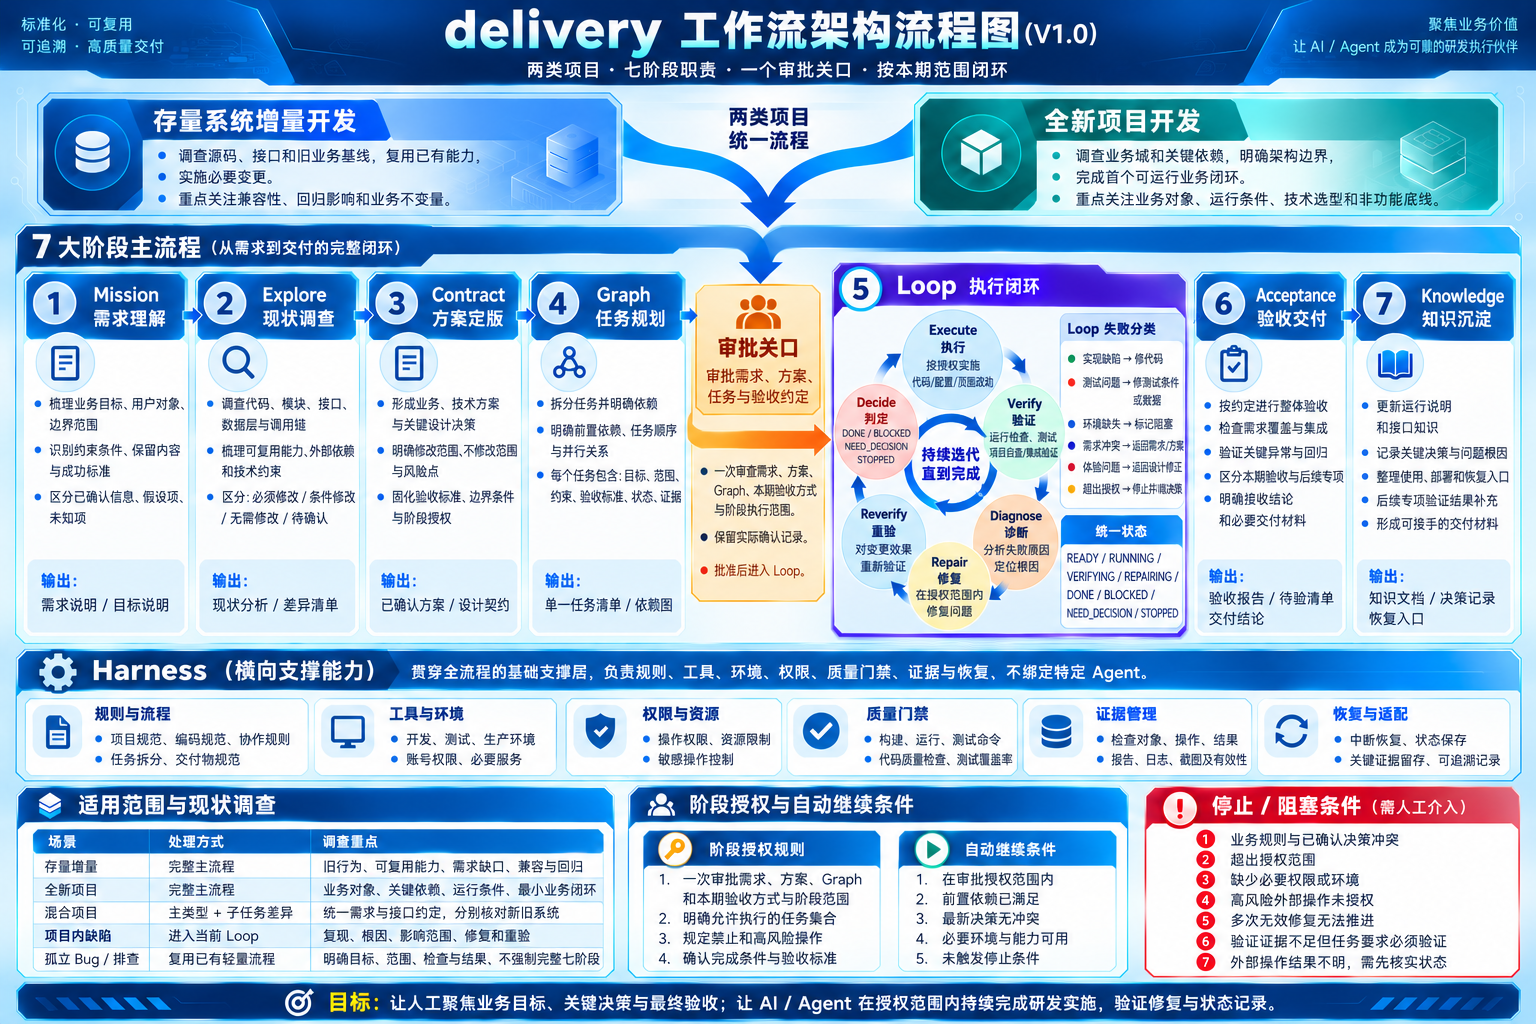
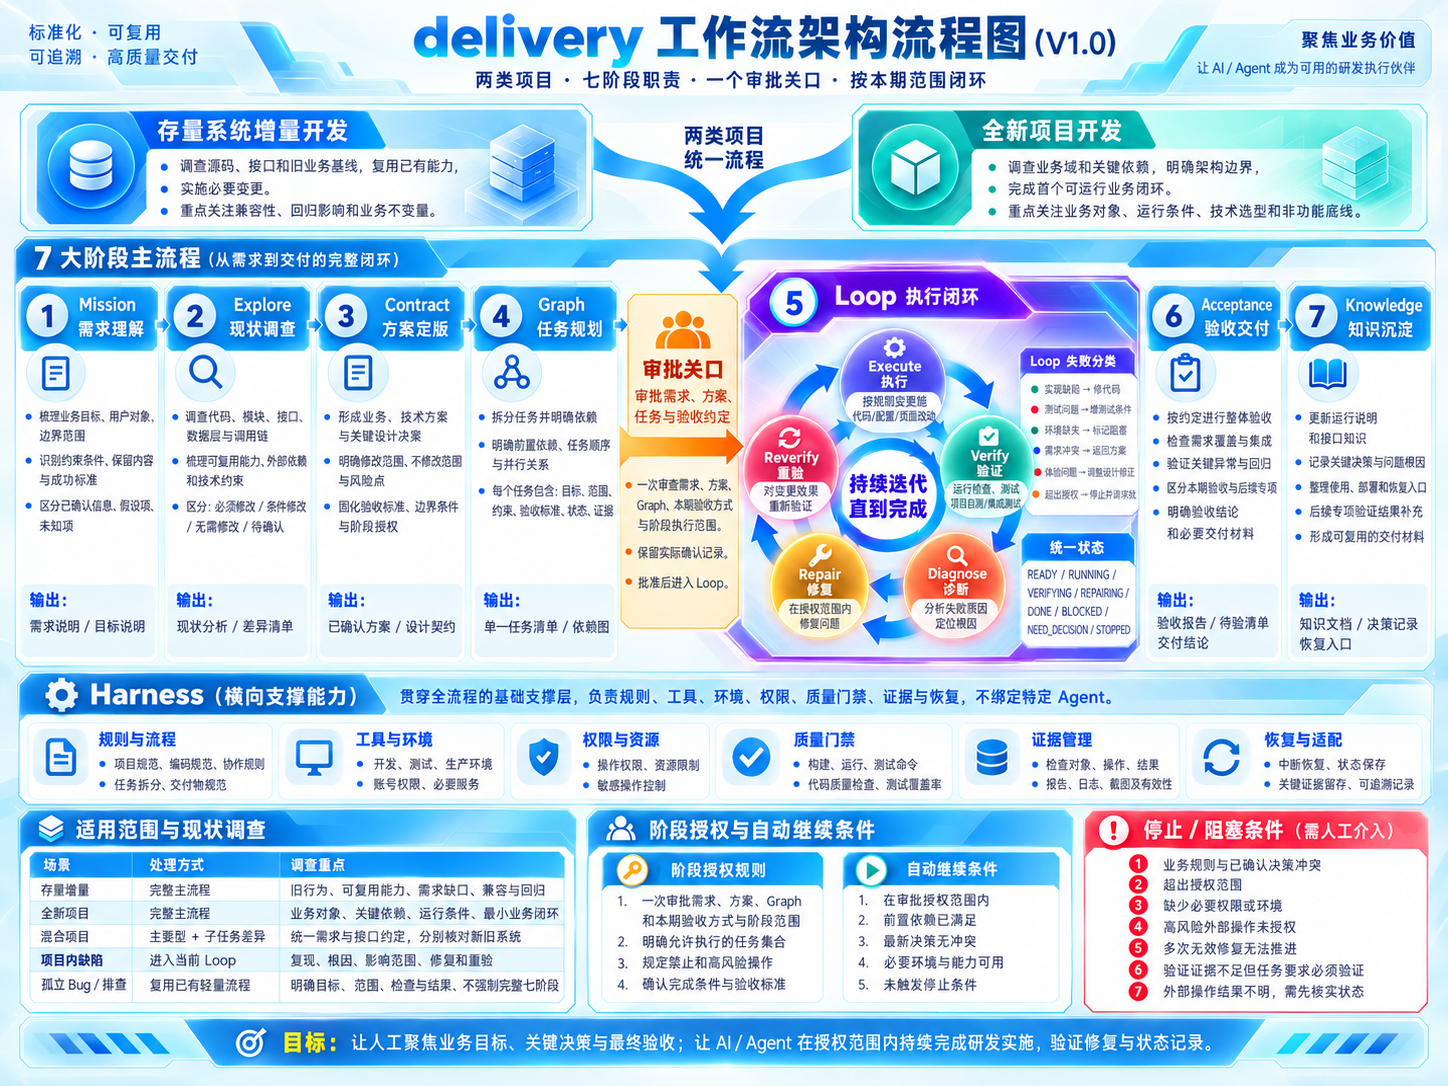
docs: refine delivery V1.0 positioning and terminology

diff --git a/README.en.md b/README.en.md
@@ -2,11 +2,15 @@
 
 # delivery
 
-**Plan with intent. Execute with approval. Deliver with evidence.**
+**A lightweight, agent-agnostic workflow for approval-gated, evidence-based software delivery.**
 
 [中文](README.md) · [MIT](LICENSE) · [CI](https://github.com/AIVORA988/delivery/actions/workflows/ci.yml)
 
-A project-local Agent Skill for incremental work and the first usable slice of a new project. Workflow V1.0, package 1.0.0, Python 3.10+, standard library only.
+delivery supports incremental development in existing systems and new projects. It establishes requirements and design baselines before implementation, coordinates work through human approval and task dependencies, and records verification evidence for acceptance and knowledge capture. It does not depend on a specific agent, model, toolchain, MCP server or cloud service.
+
+Agents advance the workflow and perform development work. The Agent Skill defines behavioral rules; the Python Guard performs deterministic validation of records and referenced files. Users define goals, approve scope, make key decisions and accept deliverables.
+
+Workflow V1.0, package 1.0.0, Python 3.10+, standard library only.
 
 ## Workflow architecture
 
@@ -16,7 +20,7 @@ A project-local Agent Skill for incremental work and the first usable slice of a
 
 ## Quick start
 
-Use an agent that supports Skills in your target project and send these three prompts in order:
+Use a tool that supports Agent Skills in your target project and send these three prompts in order:
 
 ### 1. Install
 
@@ -45,7 +49,22 @@ checks pending when their prerequisites are unavailable.
 
 See [START.md](START.md) for manual installation and conflict handling.
 
-## Run a local demonstration
+## Workflow and example
+
+The seven stages are **Mission → Explore → Contract → Graph → Loop → Acceptance → Knowledge**. A separate **Approval Gate** sits between Graph and Loop.
+
+| Term | Responsibility |
+| --- | --- |
+| Mission | Requirements understanding |
+| Explore | Current-state investigation |
+| Contract | Design finalization |
+| Graph | Task planning |
+| Approval Gate | Human approval of the baseline, scope and permitted operations |
+| Loop | Execution and verification, failure classification, repair, reverification and recovery |
+| Acceptance | Overall acceptance and delivery |
+| Knowledge | Documentation and knowledge capture |
+
+The approved baseline includes requirements, design, tasks and acceptance methods. Agents continue within the approved batch while respecting dependencies, scope and recorded limits. Material changes require review of the affected parts. Harness capabilities provide cross-cutting support for project rules, tools, environments, permissions, quality checks, evidence and recovery.
 
 ```bash
 python examples/try_delivery.py
@@ -70,17 +89,27 @@ Click a diagram to view the full-resolution original (Chinese). See [Usage](docs
 
 [![03 · Acceptance and evidence loop](docs/diagrams/03-acceptance-evidence.png)](docs/diagrams/03-acceptance-evidence.png)
 
-## What it checks
+## Core validation mechanisms
 
-- Plan and task-definition hashes bound to the recorded approval.
-- Acyclic dependencies, approved batches and path boundaries.
-- Recorded repair/time limits that survive recovery.
-- Current source/artifact and raw-report fingerprints.
-- Separate task and overall acceptance, receipt and handoff.
-- Explicit external followups and timely documentation updates.
+- **Approval baseline consistency**: approval is bound to plan and task-definition hashes. Material changes invalidate the baseline; routine progress updates do not.
+- **Task dependencies and authorization scope**: check acyclic dependencies, approved batches and path boundaries. DONE tasks require valid current or historical approval coverage.
+- **Evidence validity**: source, artifact and raw-report fingerprints must match. Changed files invalidate the current result; historical evidence is retained.
+- **Bounded repair and recovery**: validate recorded repair counts and elapsed time against limits, retaining cumulative usage and recovery details across interruptions. Unconfigured limits do not imply unlimited execution.
+- **Separate task and overall acceptance**: task completion does not replace overall acceptance, a recorded receipt or required handoff materials.
+- **Current delivery scope and follow-up validation**: explicitly approved follow-ups remain separate, while documentation and knowledge are updated as work progresses.
 
-The read-only guard checks record consistency. It does not execute project commands, authenticate the reviewer, verify evidence honesty, or enforce an OS sandbox. Installation success means CONFIGURED, not application correctness.
+The read-only Guard is a deterministic validator of record consistency and referenced files. It does not execute project commands, authenticate reviewers, establish report authenticity, or enforce an operating-system sandbox. Agents and the agreed recipients remain responsible for execution, impact analysis and business acceptance under project rules. Installation success means CONFIGURED, not application correctness.
 
-Current-scope acceptance may use approved local, mock, test or review methods. A live-environment check blocks current completion only when explicitly required in that scope. Required checks cannot be silently deferred. Documentation and knowledge evolve with actual decisions, implementation and executed checks.
+## Acceptance scope and evidence validity
+
+Current-scope acceptance may use approved local, Mock, test-environment, source-review or demonstration methods. Conclusions apply only to the coverage actually verified; tasks need not pass through every environment tier. Required live-environment checks must pass within the current scope and cannot be silently deferred.
+
+When all required task checks, overall acceptance, handoff materials and the agreed receipt are complete, the current delivery scope may be declared complete. Approved follow-up validation retains its own NOT_VERIFIED status and recovery entry. Documentation and knowledge evolve with actual decisions, implementation and executed checks; subsequent live results supplement those records.
+
+## Project integration and implementation boundaries
+
+The default files are `plan.md` for the reviewable plan and `record.json` for task state, approvals, evidence and handoff records. Agents maintain the internal records. Existing project rules and local changes are preserved; existing plans and records may be reused without mandatory migration. Isolated investigations and minor fixes follow the project's lightweight process.
+
+The package supports direct Skill installation and a project-local setup script, with optional plugin manifests. It includes no independent background scheduler, complete programmatic workflow engine, operating-system permission sandbox, approval identity authentication or automatic production release capability.
 
 [Workflow](skills/delivery/SKILL.md) · [Usage](docs/usage.md) · [Record contract](skills/delivery/references/record.md) · [Validation](docs/validation.md) · [Contributing](CONTRIBUTING.md) · [Security](SECURITY.md)

diff --git a/docs/design.md b/docs/design.md
@@ -1,26 +1,26 @@
 # 设计原则与实现边界
 
-## 需求质量决定执行质量
+## 需求与方案基线
 
-前期重点是需求、现状、方案和任务拆分。审批位于 Graph 与 Loop 之间，一次确认可执行基线；批准批次内常规动作连续执行，重大变化只复核受影响部分。
+需求理解、现状调查、方案定版与任务规划构成执行前基线。独立的人工审批关口位于 Graph 与 Loop 之间，确认方案、任务、验收方式与授权范围；批准批次内常规操作连续执行，实质变更复核受影响部分。
 
-## 语义稳定，工具可替换
+## 职责分离与工具解耦
 
-Skill 保存七阶段职责、判断与停止规则；Python 工具处理项目安装和确定性记录检查；宿主提供文件、命令、浏览器及测试能力。缺少某个 MCP 不自动等于流程阻塞。
+Agent 负责流程推进和实际研发执行；Skill 定义七阶段职责、判断与停止规则；Python 工具处理项目安装，Guard 负责确定性记录校验；宿主提供文件、命令、浏览器及测试能力。流程不绑定特定 Agent、模型或工具链，缺少特定 MCP 不直接构成流程阻塞。
 
-不运行守护进程，不接管操作系统权限，不为单个工作流建立 Agent 平台。项目原有 AGENTS、构建命令与知识位置保留。
+Harness 表示横向支撑能力，涵盖项目规则、工具、环境、权限、质量门禁、验证证据与恢复。当前实现不包含独立后台调度器、完整的程序化流程执行引擎、操作系统权限沙箱或审批身份认证机制。项目原有 AGENTS、构建命令与知识位置保留。
 
-## 三个逻辑对象，复用已有载体
+## 轻量化记录与载体复用
 
-Plan / Contract、Task Board、Evidence 是逻辑职责，不要求三套人工表单。默认一份可读方案配一份 Agent 维护的 record，原始日志只放引用；公共配置和安装回执按项目维护一次。
+Plan / Contract、Task Board、Evidence 分别承担方案、任务和验证证据的逻辑职责，不要求维护三套人工表单。默认使用 `plan.md` 保存可读方案，`record.json` 保存 Agent 维护的状态与记录，原始日志保留引用；公共配置和安装回执按项目维护一次。
 
-## 作用域决定验收
+## 交付范围与验收约定
 
 本期完成取决于已批准需求、方法和必需交付物。真实环境专项按目标判断是否属于本期，未覆盖项保留独立状态。知识更新可以依据设计、静态实现和已执行检查持续进行。
 
-## 用工具发现矛盾，用证据判断结果
+## 确定性校验与验证证据
 
-Guard 检查审批摘要、Graph、累计用量、证据文件和完成组合。摘要发现所引用文件变化，不能发现所有语义影响或证明记录真实。高风险与关键跨模块变更按实际风险安排独立复核，不把同一人的自检自动当成接收事实。
+Guard 校验审批基线、任务依赖、授权范围、记录中的执行限制、验证证据有效性及整体验收条件。摘要可检测所引用文件的变化，不能识别所有语义影响或证明记录真实性。高风险与关键跨模块变更按实际风险安排独立复核，自检结果不自动构成交付接收记录。
 
 ## 来源与版本
 

diff --git a/skills/delivery/SKILL.md b/skills/delivery/SKILL.md
@@ -1,13 +1,13 @@
 ---
 name: delivery
-description: 将研发需求从规划、审批推进到按约验收：接入项目，前置现状调查、方案和任务拆分，在批准范围内连续执行、验证、修复并更新文档。用于存量增量、新项目、delivery 初始化与恢复；孤立排查和微小修复采用项目轻量流程。
+description: 面向 AI Agent 的轻量级研发交付工作流。需求与方案前置，经人工审批授权后，在批准范围内执行、验证、修复、整体验收并更新文档与知识。用于存量系统增量开发、全新项目开发及 delivery 初始化与恢复；孤立排查和微小修复采用项目轻量流程。
 metadata:
   version: "V1.0"
 ---
 
 # delivery V1.0
 
-将目标落实为可审批、可执行、可验收、可接手的研发交付。以需求、方案和任务拆分质量为前提，在实际批准范围内连续执行。
+以需求与方案基线、人工审批授权、受控迭代执行和可追溯的验证证据规范研发交付。Agent 负责流程推进与实际执行，Skill 定义行为规范，Python Guard 负责确定性记录校验。
 
 ## 接入与当前阶段
 
@@ -37,7 +37,7 @@ metadata:
 
 建立唯一主清单。每项只保留目标、范围、依赖、可核验的本期验收、状态和证据引用；公共基线只写一次。依赖无环，以可执行、可验收、可交接为粒度，安排集成和整体验收。
 
-### 审批关口：Graph → Loop
+### Approval Gate：人工审批关口（Graph → Loop）
 
 使用工具记录时按 [record.md](references/record.md) 维护内部结构。审批前运行只读 `guard` 获取当前 plan / Graph 摘要，关联真实批准来源；进入执行、恢复及交付前再次运行。`record_valid`、`execution_ready`、`delivery_ready` 分别表示记录、执行前提和本期完成组合，不把任意一个布尔值代替业务判断。
 
@@ -45,7 +45,7 @@ metadata:
 
 已有明确审批及授权应沿用，不因更换会话或调用 Skill 重复索取。尚未批准时完成材料，停在实施边界并集中提出待确认事项。AI 不代填审批，不把沉默或模板示例当作通过。发布、外部写入、资金与 Git 操作仍按具体用户授权及项目规则执行。
 
-### 5. Loop：执行、验证、诊断、修复、重验
+### 5. Loop：执行与验证闭环
 
 执行或恢复时读取 [execution.md](references/execution.md)。仅处理已批准批次内依赖满足、权限可用的任务，同批次常规步骤连续执行。外层调度任务，内层闭环当前任务；每次修复后必须重验并判定。
 

diff --git a/START.md b/START.md
@@ -1,10 +1,10 @@
 # delivery 安装与维护
 
-日常使用统一采用 README 的 [安装 → 提需求 → 审批执行](README.md#快速开始) 三段 prompt。本页补充手工安装与冲突处理。
+使用入口见 README 的 [安装 → 提需求 → 审批执行](README.md#快速开始) 三段 prompt。本页说明手工安装与冲突处理。
 
 ## 手工安装
 
-需要 Python 3.10+，无 pip 依赖。目标项目目录须已存在；下面命令在 delivery 仓库根目录执行，替换实际项目位置。
+需要 Python 3.10+，仅使用标准库，无需通过 pip 安装依赖。目标项目目录须已存在；以下命令在 delivery 仓库根目录执行，项目路径替换为实际位置。
 
 ```bash
 git clone https://github.com/AIVORA988/delivery.git
@@ -14,10 +14,10 @@ python skills/delivery/scripts/delivery.py init --project ../your-project
 python skills/delivery/scripts/delivery.py check --project ../your-project
 ```
 
-macOS / Linux 可使用 python3，Windows 可使用 py -3。也可下载 GitHub ZIP，无需为了安装引入 Git。检查成功只表示 CONFIGURED，不代表业务项目构建或验收通过。
+macOS / Linux 可使用 python3，Windows 可使用 py -3。也可下载 GitHub ZIP，无需安装 Git。检查成功只表示 CONFIGURED，不代表业务项目构建或验收通过。
 
 ## 安装冲突
 
-出现本地修改或不兼容文件时先比较，不覆盖。脚本安装不会改 AGENTS、全局设置、业务代码或运行项目命令。卸载或迁移前保留需求记录；完整说明见 [接入与维护](skills/delivery/references/setup.md)。
+检测到本地修改或不兼容文件时，先审查差异，不直接覆盖。安装脚本不修改 AGENTS、全局设置或业务代码，不执行项目命令。卸载或迁移前保留需求记录；完整说明见 [接入与维护](skills/delivery/references/setup.md)。
 
 支持 Agent Skills 的工具可读取 [SKILL.md](skills/delivery/SKILL.md)，自动发现与调用方式按所用工具的支持情况处理；也可让 Agent 直接读取该文件并按规则工作。

diff --git a/CONTRIBUTING.md b/CONTRIBUTING.md
@@ -1,11 +1,11 @@
 # 贡献指南
 
-欢迎提交能复现的问题和有实际收益的小改进。
+欢迎提交可复现的问题报告与具有明确用途的改进。
 
 1. 说明操作系统、Python 与宿主版本，预期、实际结果和最小复现。报告中去除凭证、个人路径、客户数据与生产日志。
 2. 修改工具时增加覆盖真实边界的回归测试，运行 `python -m unittest discover -s tests -v`。
 3. 修改规则时同步影响的 Skill、记录契约、示例和文档；保持实际授权、作用域和证据边界。
-4. 保持标准库优先，不增加无人使用的服务、调度器或通用框架。
+4. 优先使用标准库，不引入与当前需求无关的服务、调度器或通用框架。
 5. 提交 PR，说明具体问题、最终行为、验证方式和限制。提交代码按本项目 MIT 许可证分发，外部代码保留兼容许可与来源。
 
-固定门槛：不得把结构校验当业务通过，不得默认填造审批，不得用后续专项掩盖已批准的本期必需项。
+贡献约束：结构校验不代表业务验收通过；不得伪造审批，不得用后续验证专项替代已批准的本期必需检查。

diff --git a/SECURITY.md b/SECURITY.md
@@ -1,8 +1,8 @@
 # 安全与信任边界
 
-- Skill 是行为指导，Guard 是本地记录检查；二者都不是系统权限沙箱、审批身份认证或防篡改账本。
+- Skill 定义行为规范，Guard 负责确定性记录校验；二者均不提供系统权限沙箱、审批身份认证或防篡改账本。
 - init 只写目标项目的受管路径，拒绝越界、符号链接与 Windows reparse point；冲突时先审查，不提供覆盖开关。
-- inspect 只看有限深度的文件名，不读取 .env、凭据内容或执行项目命令。
+- inspect 只扫描有限深度的文件名，不读取 .env、凭据内容或执行项目命令。
 - 报告和源码摘要只能检查引用文件是否变化，不能证明远端实例身份或全部业务行为。
 - 用户与项目规则决定发布、资金、数据迁移、Git 和外部写入权限，安装工作流不授予额外权限。
 

diff --git a/examples/local-delivery.md b/examples/local-delivery.md
@@ -1,4 +1,4 @@
-# 一个可运行的本地交付示例
+# 本地交付示例
 
 ```bash
 python examples/try_delivery.py
@@ -16,7 +16,7 @@ python examples/try_delivery.py
 | C2 整体场景 | 启动命令行程序，核对输入和 stdout，保存实际报告 |
 | 后续 F01 | 保留 NOT_VERIFIED 和接手入口，不访问远端服务 |
 
-## 应观察到的结果
+## 预期输出
 
 ```json
 {

diff --git a/docs/validation.md b/docs/validation.md
@@ -2,7 +2,7 @@
 
 工作流 V1.0，分发包 1.0.0。工程校验与真实项目效果分别记录。
 
-## 可重复的检查
+## 可复现的工程检查
 
 ```bash
 python -m unittest discover -s tests -v
